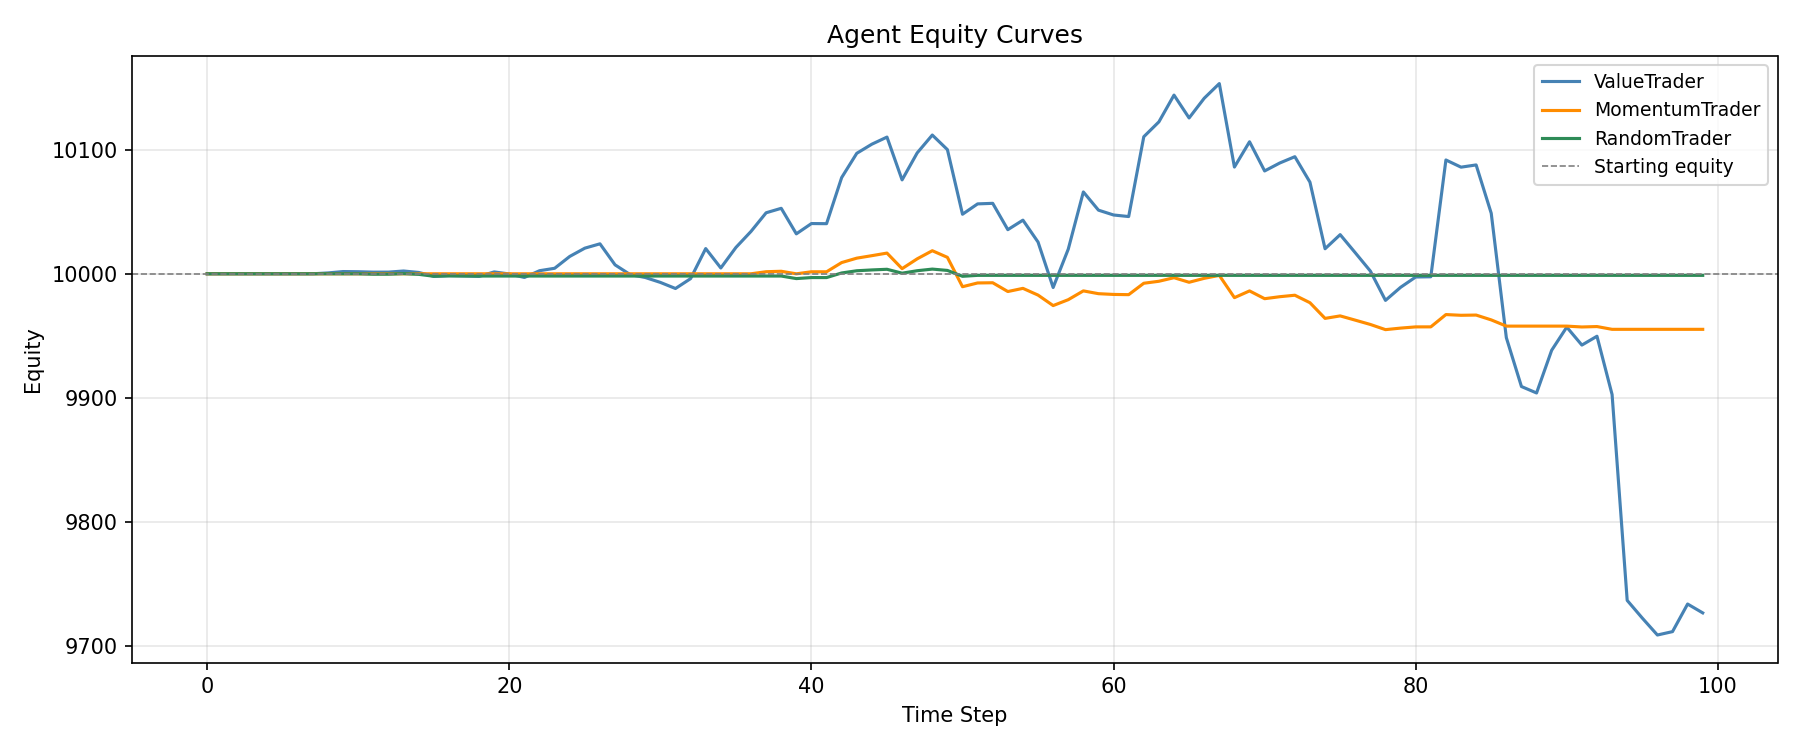
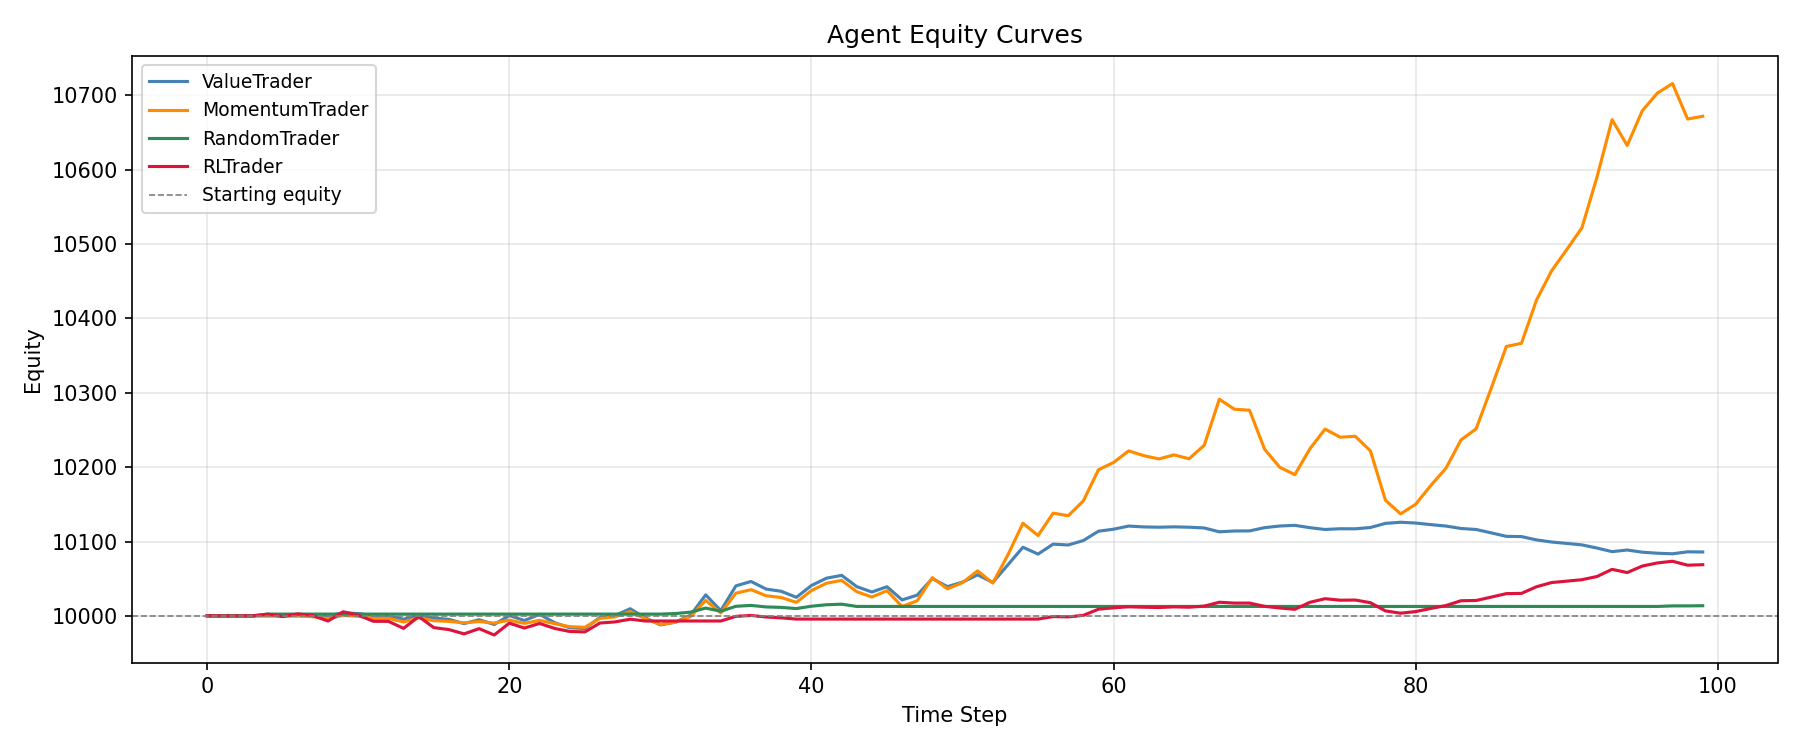
Add a reinforcement learning agent to trade in the simulation
Implement a ReinforcementLearningTrader class, integrate it into the simulation loop for Q-learning updates, and add it to the main execution file with performance tracking.

Replit-Commit-Author: Agent
Replit-Commit-Session-Id: 3826bf3c-e3fd-4317-b321-61e418fea702
Replit-Commit-Checkpoint-Type: full_checkpoint
Replit-Commit-Event-Id: 71874a11-1f3c-4929-a3f8-ef8f362f93ca
Replit-Helium-Checkpoint-Created: true

diff --git a/project/simulation/simulation.py b/project/simulation/simulation.py
@@ -1,4 +1,5 @@
 from agents.trader_agent import ValueTrader, MomentumTrader, RandomTrader
+from agents.rl_agent import ReinforcementLearningTrader
 from agents.market_agent import MarketAgent
 from exchange.exchange import Exchange
 from config.config import (
@@ -18,7 +19,8 @@ class Simulation:
         self.agents = [
             ValueTrader("ValueTrader", INITIAL_BALANCE),
             MomentumTrader("MomentumTrader", INITIAL_BALANCE),
-            RandomTrader("RandomTrader", INITIAL_BALANCE)
+            RandomTrader("RandomTrader", INITIAL_BALANCE),
+            ReinforcementLearningTrader("RLTrader", INITIAL_BALANCE),
         ]
 
     def run(self):
@@ -34,19 +36,41 @@ class Simulation:
                 self.market.volatility
             )
 
-            # Each agent decides using the full market state
+            # All agents decide and submit orders.
+            # We capture each agent's action so RL can use it in the Q-update below.
+            step_actions = {}
             for agent in self.agents:
                 action = agent.decide(state)
+                step_actions[agent] = action
                 self.exchange.process_order(agent, action, price)
 
-            # Fill any unmatched orders via market maker
+            # Fill any unmatched resting orders via market maker
             self.exchange.fill_resting_orders(price)
 
-            # Update tracking for next step
+            # Update tracking and run Q-learning update for the RL agent
             for agent in self.agents:
                 agent.update_last_price(state.mid_price)
                 agent.update_unrealized_pnl(price)
                 agent.record_equity()
+
+                if isinstance(agent, ReinforcementLearningTrader):
+                    new_encoded = agent.encode_state(state)
+                    new_equity = agent.balance + agent.unrealized_pnl
+
+                    # Skip Q-update on the very first step (no previous state yet)
+                    if agent.prev_state is not None:
+                        reward = new_equity - agent.prev_equity
+                        agent.update_q(
+                            agent.prev_state,
+                            agent.prev_action,
+                            reward,
+                            new_encoded
+                        )
+
+                    # Store experience for next step's update
+                    agent.prev_state = new_encoded
+                    agent.prev_action = step_actions[agent]
+                    agent.prev_equity = new_equity
 
             # Record price and regime history
             self.price_history.append(price)

diff --git a/project/main.py b/project/main.py
@@ -4,6 +4,7 @@ import matplotlib.pyplot as plt
 import matplotlib.patches as mpatches
 
 from simulation.simulation import Simulation
+from agents.rl_agent import ReinforcementLearningTrader
 
 
 REGIME_COLORS = {
@@ -35,7 +36,6 @@ def plot_price_chart(price_history, regime_history):
     shade_regimes(ax, regime_history)
     ax.plot(price_history, color="black", linewidth=1.2, label="Price")
 
-    # Legend: regime patches + price line
     patches = [
         mpatches.Patch(color=REGIME_COLORS[r], alpha=0.4, label=r.replace("_", " ").title())
         for r in REGIME_COLORS
@@ -55,11 +55,12 @@ def plot_price_chart(price_history, regime_history):
 
 def plot_equity_curves(agents):
     fig, ax = plt.subplots(figsize=(12, 5))
-    colors = ["steelblue", "darkorange", "seagreen"]
+    colors = ["steelblue", "darkorange", "seagreen", "crimson"]
     for agent, color in zip(agents, colors):
         ax.plot(agent.equity_history, label=agent.name, color=color, linewidth=1.5)
-    ax.axhline(y=agent.equity_history[0], color="gray", linestyle="--",
-               linewidth=0.8, label="Starting equity")
+    if agents:
+        ax.axhline(y=agents[0].equity_history[0], color="gray", linestyle="--",
+                   linewidth=0.8, label="Starting equity")
     ax.set_title("Agent Equity Curves")
     ax.set_xlabel("Time Step")
     ax.set_ylabel("Equity")
@@ -73,7 +74,7 @@ def plot_equity_curves(agents):
 
 def plot_drawdowns(agents):
     fig, ax = plt.subplots(figsize=(12, 5))
-    colors = ["steelblue", "darkorange", "seagreen"]
+    colors = ["steelblue", "darkorange", "seagreen", "crimson"]
     for agent, color in zip(agents, colors):
         equity = agent.equity_history
         peak = equity[0]
@@ -112,10 +113,13 @@ def main():
     for agent in agents:
         total_equity = agent.balance + agent.unrealized_pnl
         print(f"{agent.name}:")
-        print(f"  Realized PnL: {agent.realized_pnl:.2f}")
+        print(f"  Realized PnL:   {agent.realized_pnl:.2f}")
         print(f"  Unrealized PnL: {agent.unrealized_pnl:.2f}")
-        print(f"  Final Balance: {agent.balance:.2f}")
-        print(f"  Total Equity: {total_equity:.2f}\n")
+        print(f"  Final Balance:  {agent.balance:.2f}")
+        print(f"  Total Equity:   {total_equity:.2f}")
+        if isinstance(agent, ReinforcementLearningTrader):
+            print(f"  Q-table states: {len(agent.q_table)}")
+        print()
 
     print("Generating charts...")
     plot_price_chart(price_history, regime_history)

diff --git a/project/agents/rl_agent.py b/project/agents/rl_agent.py
@@ -1,0 +1,45 @@
+import random
+from agents.trader_agent import TraderAgent
+
+
+class ReinforcementLearningTrader(TraderAgent):
+    actions = ["buy", "sell", "hold"]
+
+    def __init__(self, name, balance):
+        super().__init__(name, balance)
+        self.q_table = {}   # (price_bucket, spread_bucket, regime) → {action: Q-value}
+        self.alpha = 0.1    # learning rate
+        self.gamma = 0.95   # discount factor
+        self.epsilon = 0.1  # exploration rate
+
+        # Set by the simulation loop each step
+        self.prev_state = None
+        self.prev_action = None
+        self.prev_equity = None
+
+    def encode_state(self, market_state):
+        """Discretize continuous market features into a hashable state tuple."""
+        price_bucket = int(market_state.mid_price // 5)
+        spread_bucket = int((market_state.spread or 0) // 1)
+        regime = market_state.regime
+        return (price_bucket, spread_bucket, regime)
+
+    def decide(self, market_state):
+        """Epsilon-greedy action selection over the current encoded state."""
+        state = self.encode_state(market_state)
+
+        if random.random() < self.epsilon:
+            return random.choice(self.actions)
+
+        qvals = self.q_table.get(state, {})
+        if not qvals:
+            return random.choice(self.actions)
+
+        return max(qvals, key=qvals.get)
+
+    def update_q(self, prev_state, action, reward, new_state):
+        """Standard Q-learning (Bellman) update."""
+        qvals = self.q_table.setdefault(prev_state, {a: 0.0 for a in self.actions})
+        next_qvals = self.q_table.get(new_state, {a: 0.0 for a in self.actions})
+        best_next = max(next_qvals.values())
+        qvals[action] += self.alpha * (reward + self.gamma * best_next - qvals[action])
